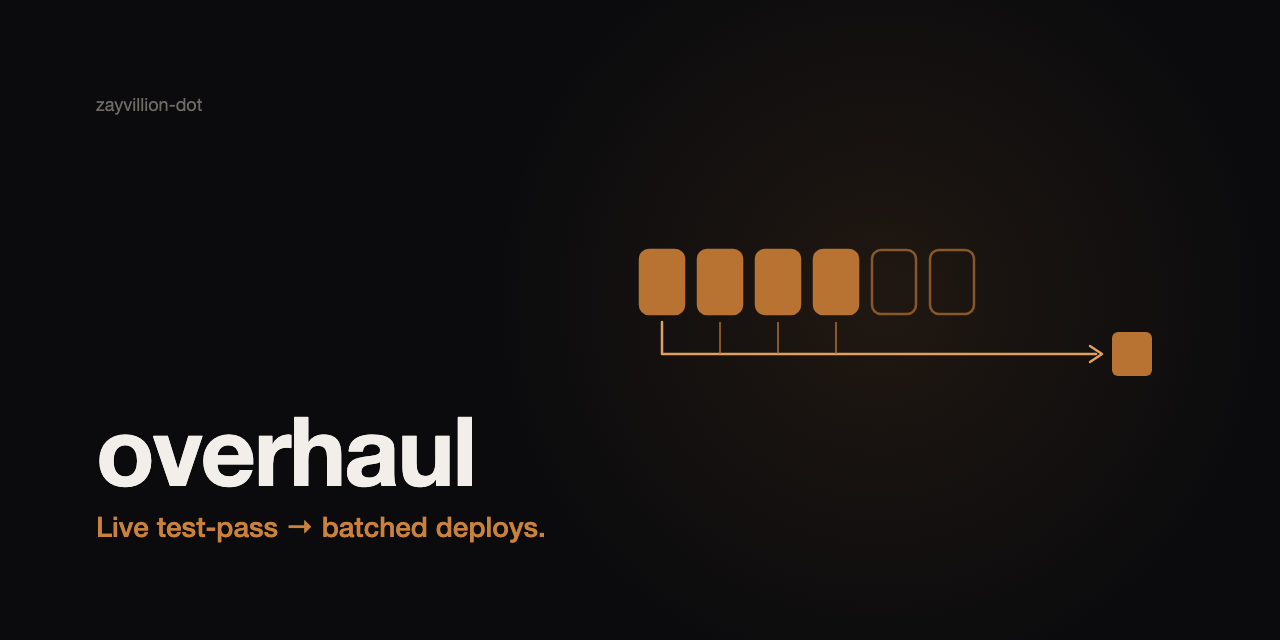
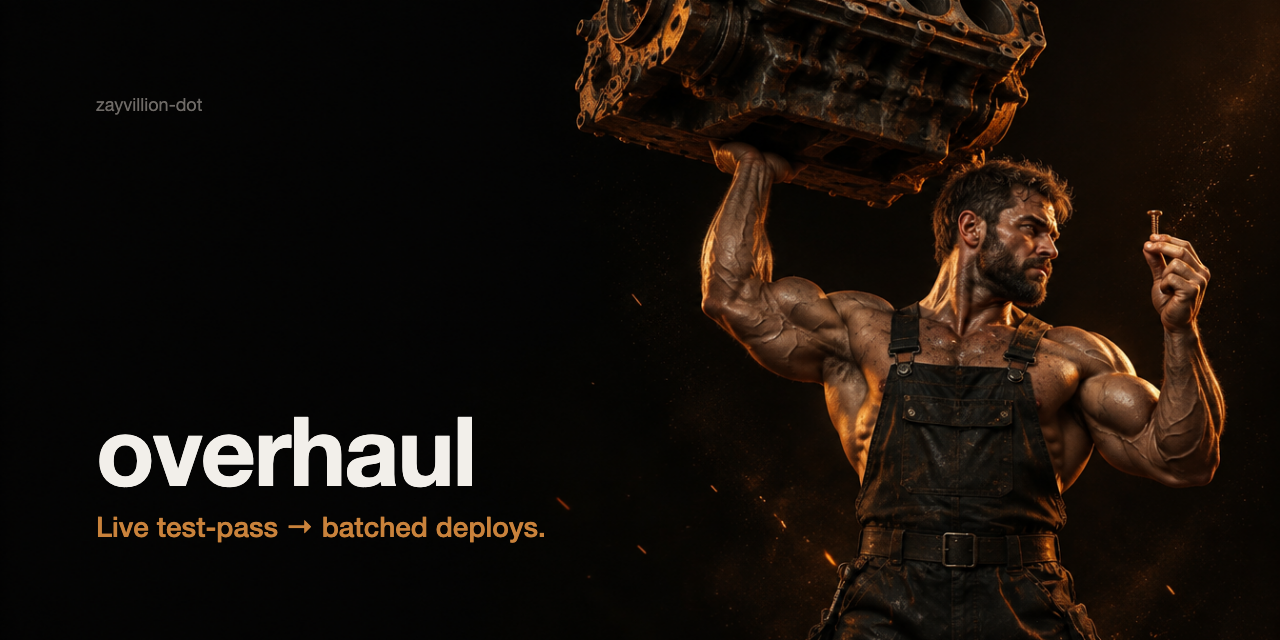
assets: photoreal social preview (sage tribunal / strongman / defibrillator)

Changed region(s): [[0.4375, 0.0, 0.9688, 1.0], [0.9375, 0.0312, 1.0, 0.25]]

diff --git a/assets/social-preview.html b/assets/social-preview.html
@@ -1,15 +1,11 @@
 <!DOCTYPE html><html><head><meta charset="utf-8"><style>
 html,body{margin:0;padding:0;background:#0B0B0D}
 body{position:relative;font-family:-apple-system,"SF Pro Display","Helvetica Neue",Helvetica,sans-serif}
-.glow{position:absolute;left:460px;top:-120px;width:840px;height:840px;background:radial-gradient(circle,rgba(184,115,51,0.12) 0%,rgba(184,115,51,0) 65%)}
 .org{position:absolute;left:96px;top:96px;font-size:18px;line-height:18px;color:#6E6A66}
 .blk{position:absolute;left:96px;bottom:96px}
 .w{font-size:96px;line-height:100px;font-weight:700;letter-spacing:-0.02em;color:#F2EFEA}
 .t{font-size:28px;line-height:34px;font-weight:500;color:#C9823B;margin-top:10px}
-svg{position:absolute;left:0;top:0}
-</style></head><body style="margin:0;width:1280px;height:640px;overflow:hidden;background:#0B0B0D">
-<div class="glow"></div>
-<svg width="1280" height="640" viewBox="0 0 1280 640" fill="none"><rect x="640" y="250" width="44" height="64" rx="9" fill="#B87333" stroke="#B87333" stroke-width="2.5"/><rect x="698" y="250" width="44" height="64" rx="9" fill="#B87333" stroke="#B87333" stroke-width="2.5"/><rect x="756" y="250" width="44" height="64" rx="9" fill="#B87333" stroke="#B87333" stroke-width="2.5"/><rect x="814" y="250" width="44" height="64" rx="9" fill="#B87333" stroke="#B87333" stroke-width="2.5"/><rect x="872" y="250" width="44" height="64" rx="9" stroke="#B87333" stroke-width="2.5" opacity="0.7"/><rect x="930" y="250" width="44" height="64" rx="9" stroke="#B87333" stroke-width="2.5" opacity="0.7"/><path d="M662 322 V354 H1096" stroke="#E0A060" stroke-width="2.5" stroke-linecap="round" stroke-linejoin="round"/><path d="M1090 346 L1102 354 L1090 362" stroke="#E0A060" stroke-width="2.5" stroke-linecap="round" stroke-linejoin="round"/><path d="M720 322 V354" stroke="#B87333" stroke-width="2" opacity="0.7"/><path d="M778 322 V354" stroke="#B87333" stroke-width="2" opacity="0.7"/><path d="M836 322 V354" stroke="#B87333" stroke-width="2" opacity="0.7"/><rect x="1112" y="332" width="40" height="44" rx="6" fill="#B87333"/></svg>
+</style></head><body style="margin:0;width:1280px;height:640px;overflow:hidden;background:#0B0B0D url('social-preview-bg.png') center/cover no-repeat">
 <div class="org">zayvillion-dot</div>
 <div class="blk"><div class="w">overhaul</div><div class="t">Live test-pass → batched deploys.</div></div>
 </body></html>

diff --git a/assets/social-preview-typographic.html b/assets/social-preview-typographic.html
@@ -1,0 +1,15 @@
+<!DOCTYPE html><html><head><meta charset="utf-8"><style>
+html,body{margin:0;padding:0;background:#0B0B0D}
+body{position:relative;font-family:-apple-system,"SF Pro Display","Helvetica Neue",Helvetica,sans-serif}
+.glow{position:absolute;left:460px;top:-120px;width:840px;height:840px;background:radial-gradient(circle,rgba(184,115,51,0.12) 0%,rgba(184,115,51,0) 65%)}
+.org{position:absolute;left:96px;top:96px;font-size:18px;line-height:18px;color:#6E6A66}
+.blk{position:absolute;left:96px;bottom:96px}
+.w{font-size:96px;line-height:100px;font-weight:700;letter-spacing:-0.02em;color:#F2EFEA}
+.t{font-size:28px;line-height:34px;font-weight:500;color:#C9823B;margin-top:10px}
+svg{position:absolute;left:0;top:0}
+</style></head><body style="margin:0;width:1280px;height:640px;overflow:hidden;background:#0B0B0D">
+<div class="glow"></div>
+<svg width="1280" height="640" viewBox="0 0 1280 640" fill="none"><rect x="640" y="250" width="44" height="64" rx="9" fill="#B87333" stroke="#B87333" stroke-width="2.5"/><rect x="698" y="250" width="44" height="64" rx="9" fill="#B87333" stroke="#B87333" stroke-width="2.5"/><rect x="756" y="250" width="44" height="64" rx="9" fill="#B87333" stroke="#B87333" stroke-width="2.5"/><rect x="814" y="250" width="44" height="64" rx="9" fill="#B87333" stroke="#B87333" stroke-width="2.5"/><rect x="872" y="250" width="44" height="64" rx="9" stroke="#B87333" stroke-width="2.5" opacity="0.7"/><rect x="930" y="250" width="44" height="64" rx="9" stroke="#B87333" stroke-width="2.5" opacity="0.7"/><path d="M662 322 V354 H1096" stroke="#E0A060" stroke-width="2.5" stroke-linecap="round" stroke-linejoin="round"/><path d="M1090 346 L1102 354 L1090 362" stroke="#E0A060" stroke-width="2.5" stroke-linecap="round" stroke-linejoin="round"/><path d="M720 322 V354" stroke="#B87333" stroke-width="2" opacity="0.7"/><path d="M778 322 V354" stroke="#B87333" stroke-width="2" opacity="0.7"/><path d="M836 322 V354" stroke="#B87333" stroke-width="2" opacity="0.7"/><rect x="1112" y="332" width="40" height="44" rx="6" fill="#B87333"/></svg>
+<div class="org">zayvillion-dot</div>
+<div class="blk"><div class="w">overhaul</div><div class="t">Live test-pass → batched deploys.</div></div>
+</body></html>
